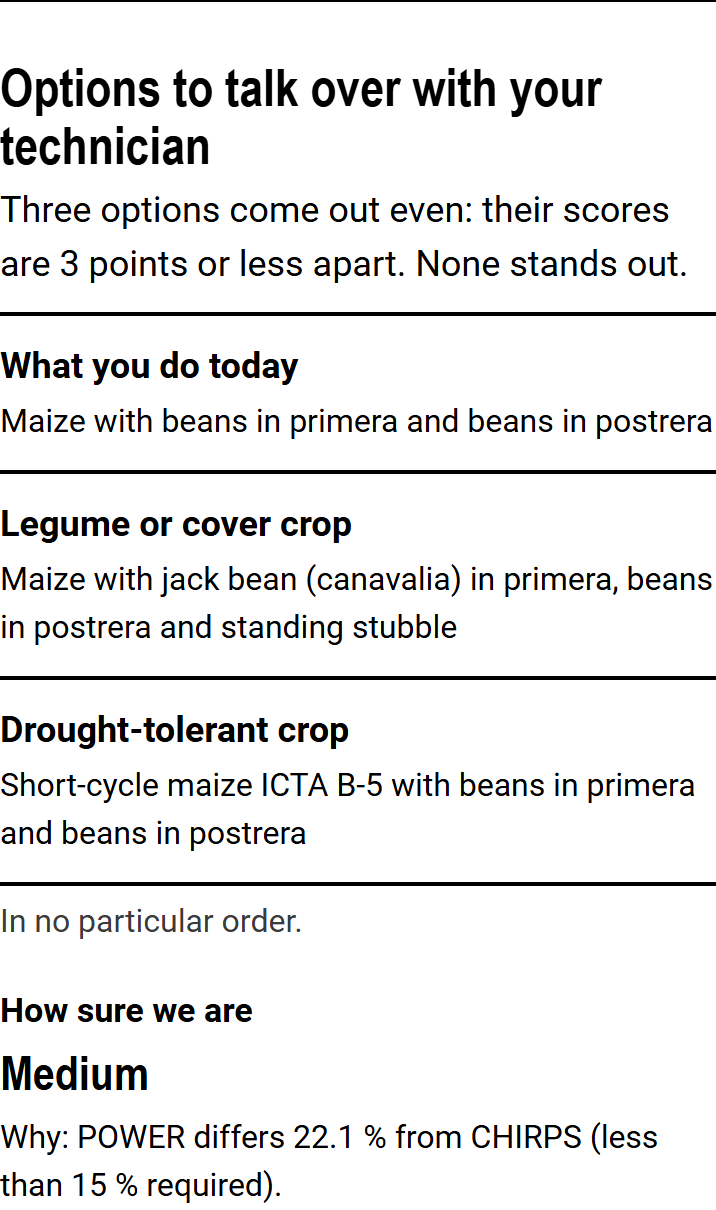
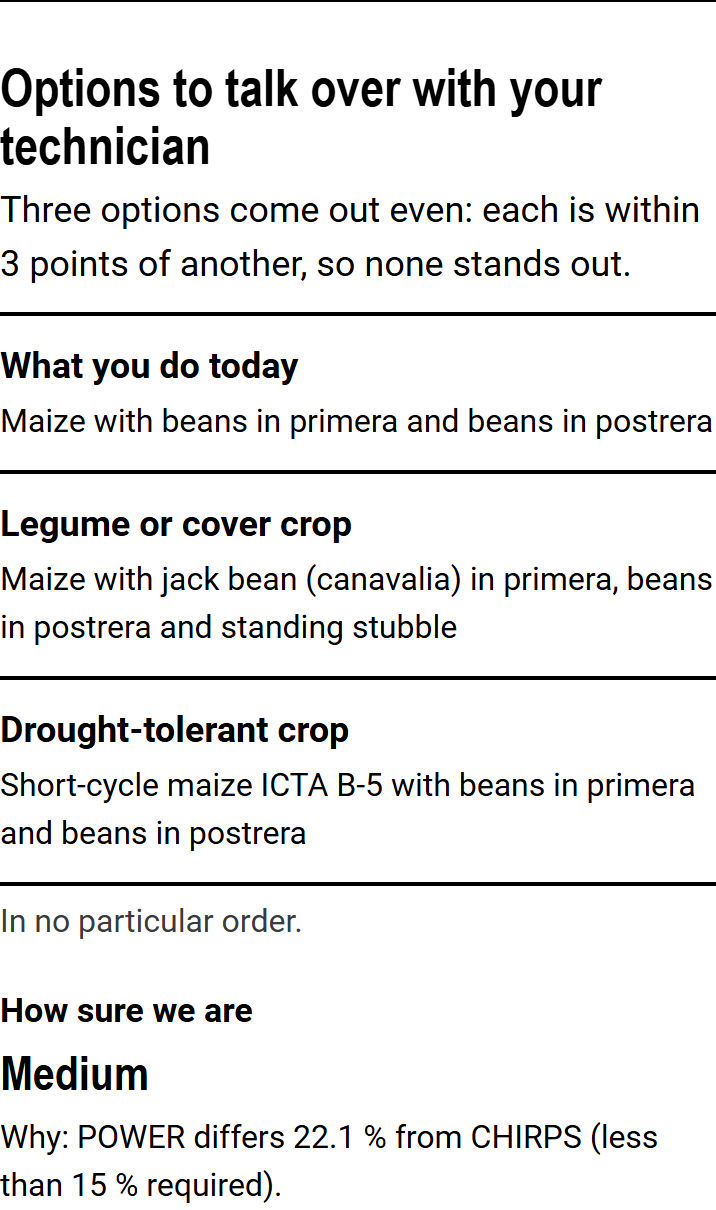
fix(web): tie text no longer claims every pair is within the margin

Changed region(s): [[0.0, 0.1529, 0.9832, 0.2446]]

diff --git a/web/src/agricultor/textos.js b/web/src/agricultor/textos.js
@@ -6,6 +6,13 @@
 import { MESES } from '../pictos/textos.js'
 
 // El idioma activo vive en web/src/i18n/store.js (uno solo para toda la web, inglés por defecto).
+// Empate en cadena: las opciones parejas no están todas a `margen` puntos o menos entre sí (en Olopa,
+// 87/90/92: la práctica actual y el ICTA B-5 se separan 5, pero la canavalia empata con las dos).
+export function empateEnCadena(ids, porId, margen) {
+  const totales = ids.map((id) => ((porId[id] || {}).puntajes || {}).total).filter((x) => typeof x === 'number')
+  return totales.length > 1 && Math.max(...totales) - Math.min(...totales) > margen
+}
+
 export const IDIOMAS = ['en', 'es']
 export const NOMBRE_IDIOMA = { en: 'English', es: 'Español' }
 
@@ -86,8 +93,10 @@ export const TEXTOS = {
     },
     sinOrden: 'In no particular order.',
     opciones: {
-      empate: (n, margen) =>
-        `${n === 2 ? 'Two' : n === 3 ? 'Three' : n} options come out even: their scores are ${margen} points or less apart. None stands out.`,
+      empate: (n, margen, enCadena) =>
+        enCadena
+          ? `${n === 2 ? 'Two' : n === 3 ? 'Three' : n} options come out even: each is within ${margen} points of another, so none stands out.`
+          : `${n === 2 ? 'Two' : n === 3 ? 'Three' : n} options come out even: their scores are ${margen} points or less apart. None stands out.`,
       una_destaca: 'One option stands out from the others:',
       gris: 'We do not compare the options here because confidence is low.',
       sinComparar: 'This data file does not compare the options.',
@@ -157,8 +166,10 @@ export const TEXTOS = {
     },
     sinOrden: 'Sin orden.',
     opciones: {
-      empate: (n, margen) =>
-        `${n === 2 ? 'Dos' : n === 3 ? 'Tres' : n} opciones quedan parejas: sus puntajes se separan ${margen} puntos o menos. Ninguna se separa lo suficiente.`,
+      empate: (n, margen, enCadena) =>
+        enCadena
+          ? `${n === 2 ? 'Dos' : n === 3 ? 'Tres' : n} opciones quedan parejas: cada una está a ${margen} puntos o menos de otra; ninguna se separa lo suficiente.`
+          : `${n === 2 ? 'Dos' : n === 3 ? 'Tres' : n} opciones quedan parejas: sus puntajes se separan ${margen} puntos o menos. Ninguna se separa lo suficiente.`,
       una_destaca: 'Una opción se separa de las demás:',
       gris: 'Aquí no comparamos las opciones porque la confianza es baja.',
       sinComparar: 'Este archivo de datos no compara las opciones.',

diff --git a/web/src/agricultor/VistaAgricultor.jsx b/web/src/agricultor/VistaAgricultor.jsx
@@ -9,7 +9,7 @@ import Senal, { claseSenal } from './Senal.jsx'
 import { Fuego, Sol, SueloCubierto, SueloDesnudo } from '../pictos/iconos.jsx'
 import { RuedaMeses } from '../pictos/RuedaMeses.jsx'
 import { PuntosAnios } from '../pictos/PuntosAnios.jsx'
-import { IDIOMAS, NOMBRE_IDIOMA, TEXTOS } from './textos.js'
+import { IDIOMAS, NOMBRE_IDIOMA, TEXTOS, empateEnCadena } from './textos.js'
 import Escuchar from './Escuchar.jsx'
 import KitParcela from '../kit/index.jsx'
 
@@ -118,7 +118,7 @@ function Opciones({ farmer, rotaciones, idioma }) {
       <h2 id="agr-opciones-titulo" className="agr-subtitulo">{t.opcionesTitulo}</h2>
       <p className={`agr-opciones-estado${enGris ? ' agr-opciones-estado--gris' : ''}`}>
         {enGris && <Senal estado="gris" />}
-        <span>{estado === 'empate' ? t.opciones.empate(lista.length, margen) : t.opciones[estado]}</span>
+        <span>{estado === 'empate' ? t.opciones.empate(lista.length, margen, empateEnCadena(mostradas, porId, margen)) : t.opciones[estado]}</span>
       </p>
       {estado === 'gris' && op.motivo_gris && (
         <p className="agr-hecho-detalle">

diff --git a/web/src/kit/Kit.jsx b/web/src/kit/Kit.jsx
@@ -8,7 +8,7 @@
 import { useEffect, useState } from 'react'
 import { createPortal } from 'react-dom'
 import Senal from '../agricultor/Senal.jsx'
-import { TEXTOS } from '../agricultor/textos.js'
+import { TEXTOS, empateEnCadena } from '../agricultor/textos.js'
 import { Fuego, Sol, SueloCubierto, SueloDesnudo } from '../pictos/iconos.jsx'
 import { RuedaMeses } from '../pictos/RuedaMeses.jsx'
 import { PuntosAnios } from '../pictos/PuntosAnios.jsx'
@@ -109,7 +109,7 @@ function Hoja({ idioma, lugar, nombre, farmer, rotaciones, href }) {
       <p className="kit-formas">{k.formas}</p>
       <section className="kit-opciones">
         <h2>{t.opcionesTitulo}</h2>
-        <p>{estadoOp === 'empate' ? t.opciones.empate((op.empatadas || []).length || opciones.length, margen) : t.opciones[estadoOp]}</p>
+        <p>{estadoOp === 'empate' ? t.opciones.empate((op.empatadas || []).length || opciones.length, margen, empateEnCadena(op.empatadas || [], porId, margen)) : t.opciones[estadoOp]}</p>
         <ol>
           {opciones.map(({ id, destaca }) => {
             const rot = porId[id] || {}
